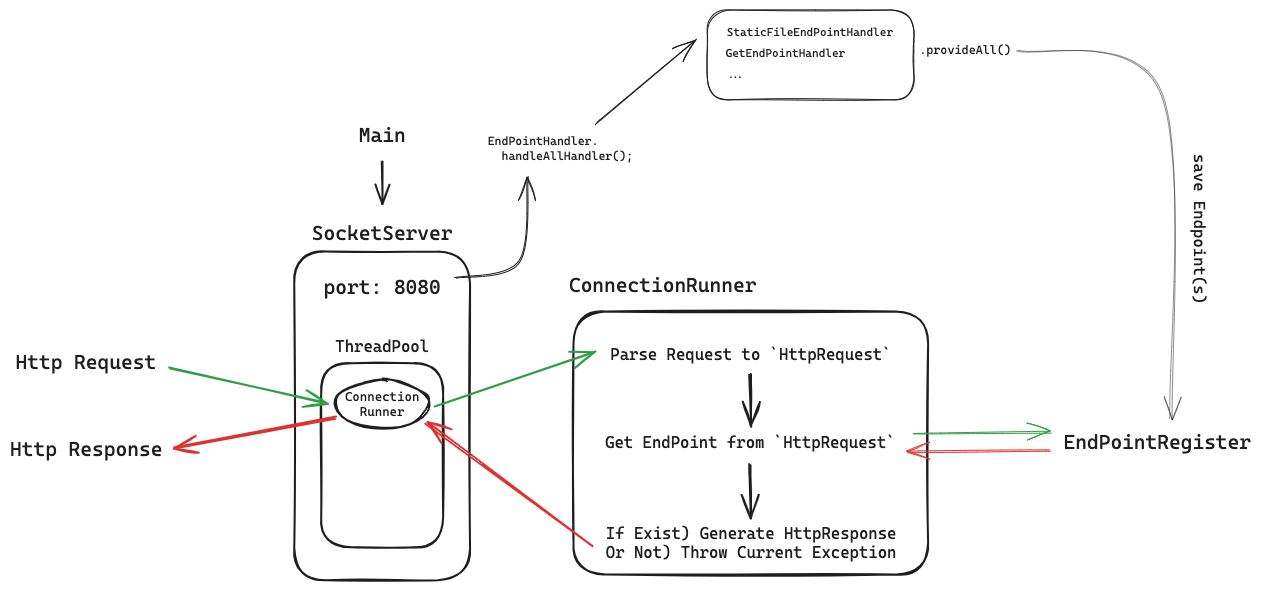
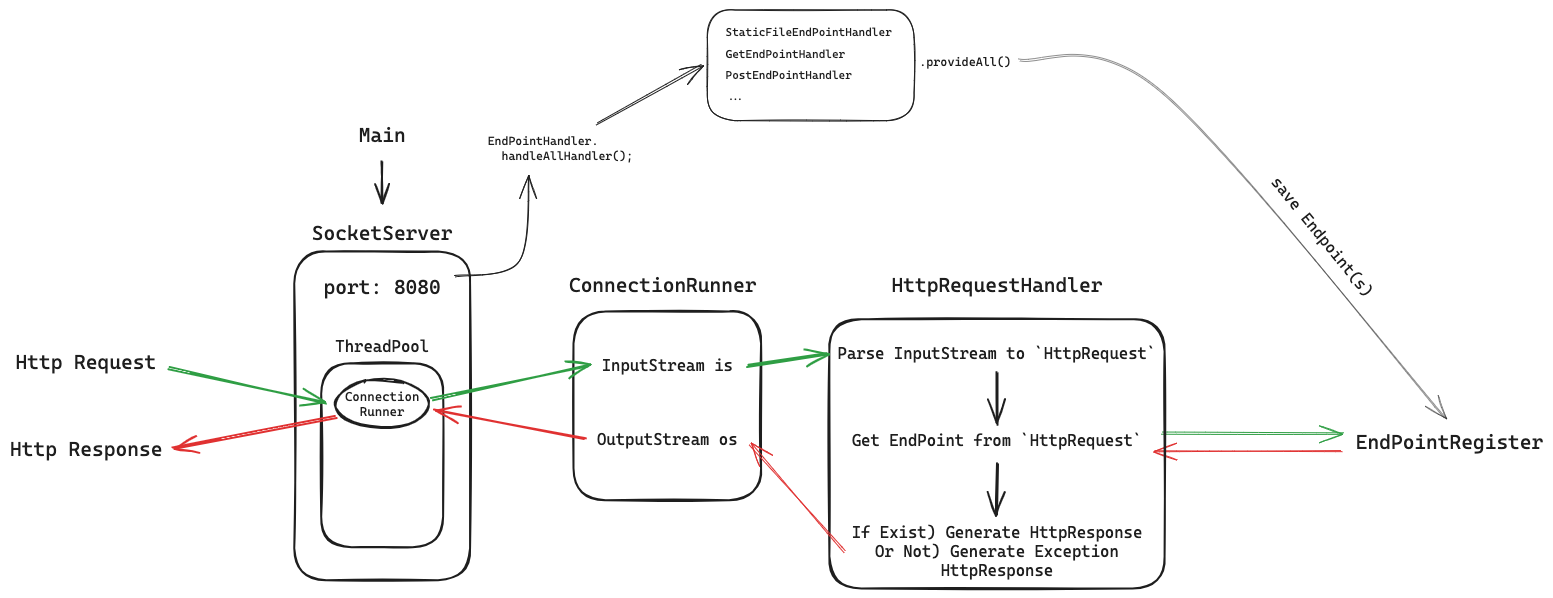
`README.md`를 업데이트했습니다. - 리팩토링 및 로직 변경에 따른 `README.md`를 수정했습니다.

diff --git a/README.md b/README.md
@@ -4,40 +4,42 @@
 
 ## 🖥 배포 주소
 
-- [추가 예정입니다!](http://localhost:8080/)
+- [AWS EC2 - 제 IP만 접속이 가능합니다](http://13.124.250.27:8080/)
 
 ## 📚 구현 설명
 
 ### ⚙ 프로젝트 동작 방식
+
 ![img.png](img.png)
 
 - `Main` 클래스에서 원하는 포트를 갖는 `ServerSocket`을 생성합니다.
 - `ServerSocket`이 생성되면서 구현된 모든 `EndPointHandler`를 핸들링해 `EndPoint`를 생성 및 저장합니다.
-  - 예시 이미지에서는 `8080` 포트를 사용합니다. 
+    - 예시 이미지에서는 `8080` 포트를 사용합니다.
 - HTTP 요청이 들어오면 `ServerSocket`은 요청에 대한 `ConnectionRunner`를 스레드로 실행합니다.
-- `ConnectionRunner`는 HTTP 요청을 `HttpRequest` 로 파싱합니다.
-- 파싱한 `HttpRequest`에 기반해서 `EndPoint`를 찾아 `HttpResponse`를 생성합니다.
-  - `EndPoint`가 존재하지 않거나 오류가 발생한 경우 이에 맞는 예외를 `HttpResponse`로 생성합니다.
-- 생성된 `HttpResponse`에 기반해 HTTP 응답을 반환합니다.
+    - `ConnectionRunner`는 HTTP 요청 `InputStream`을 `HttpRequestHandler`에 위임합니다.
+    - `HttpRequestHandler`는 `InputStream`을 파싱해 `HttpRequest` 객체를 생성합니다.
+    - 파싱한 `HttpRequest` 객체를 기반으로 `EndPoint`를 찾아 `HttpResponse`를 생성 및 `ConnectionRunner`에게 반환합니다.
+- `ConnectionRunner`는 `HttpResponse`를 `OutputStream`에 쓰고, `Socket`을 닫습니다.
 
 ### 🔍 `EndPoint` 살펴보기
+
 ```java
 
 public class EndPoint {
+
     private final String path;
-    private final Function<String, byte[]> function;
-    private final StatusCode statusCode;
-    private String contentType;
-    private String redirectUri;
+    private final BiFunction<Map<String, String>, T, HttpResponse> biFunction;
 }
 
 ```
 
-- `EndPoint` 객체는 응답 Path, 요청에 대한 동작인 `Function` 인터페이스, 응답 상태 코드, 컨텐츠 타입, 리다이렉트 URI를 가지고 있습니다.
-- `Function` 인터페이스는 `String` 타입의 요청을 받아 `byte[]` 타입의 응답을 반환합니다.
-  - GET 요청의 경우 query를 통한 인자 전달이 가능해 이를 사용하고자 `Function<String, byte[]`를 활용했습니다. 
+- `EndPoint` 객체는 응답 Path, 요청에 대한 동작인 `BiFunction` 함수형 인터페이스를 가지고 있습니다.
+- `Function` 인터페이스는 `Map<String, String>` 타입의 Header 값들과, `String` 타입의 쿼리(GET) or Body(POST)를
+  받아 `HttpResponse` 타입의 응답을 반환합니다.
 - 예를 들어 `/api/v1/hello` 라는 GET 요청에 Json 형식으로 안녕하세요라는 데이터를 반환한다면, 아래와 같이 `EndPoint`를 생성할 수 있습니다.
+
 ```java
-EndPoint endPoint = new EndPoint("/api/v1/hello", ignore -> "{\"message\": \"안녕하세요\"}".getBytes(), StatusCode.OK, ContentType.APPLICATION_JSON);
+EndPoint endPoint = new EndPoint("/api/v1/hello", (header, body) -> HttpResponse.from(
+    HttpStatus.OK, "{\"message\": \"안녕하세요\"}".getBytes()));
 ```
-- 추후 `EndPoint`를 추상화 해 `GetEndPoint`, `PostEndPoint` 등으로 세분화 할 예정입니다.
+
